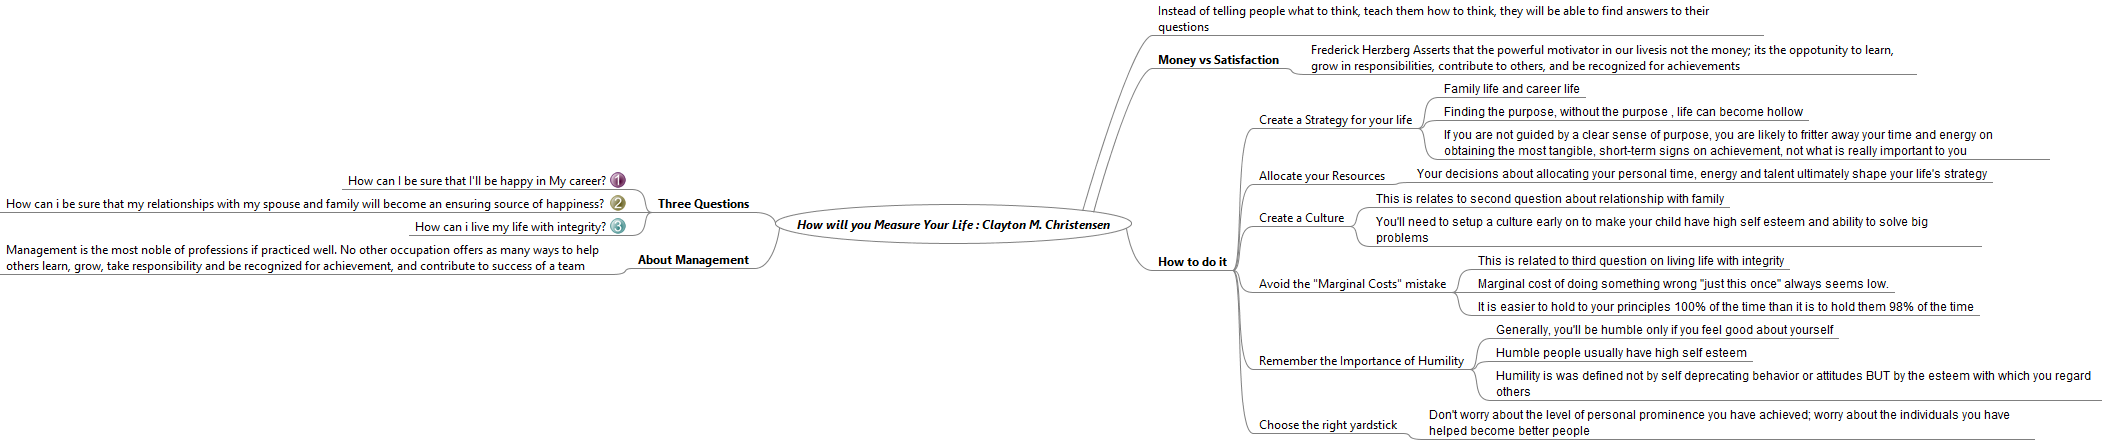
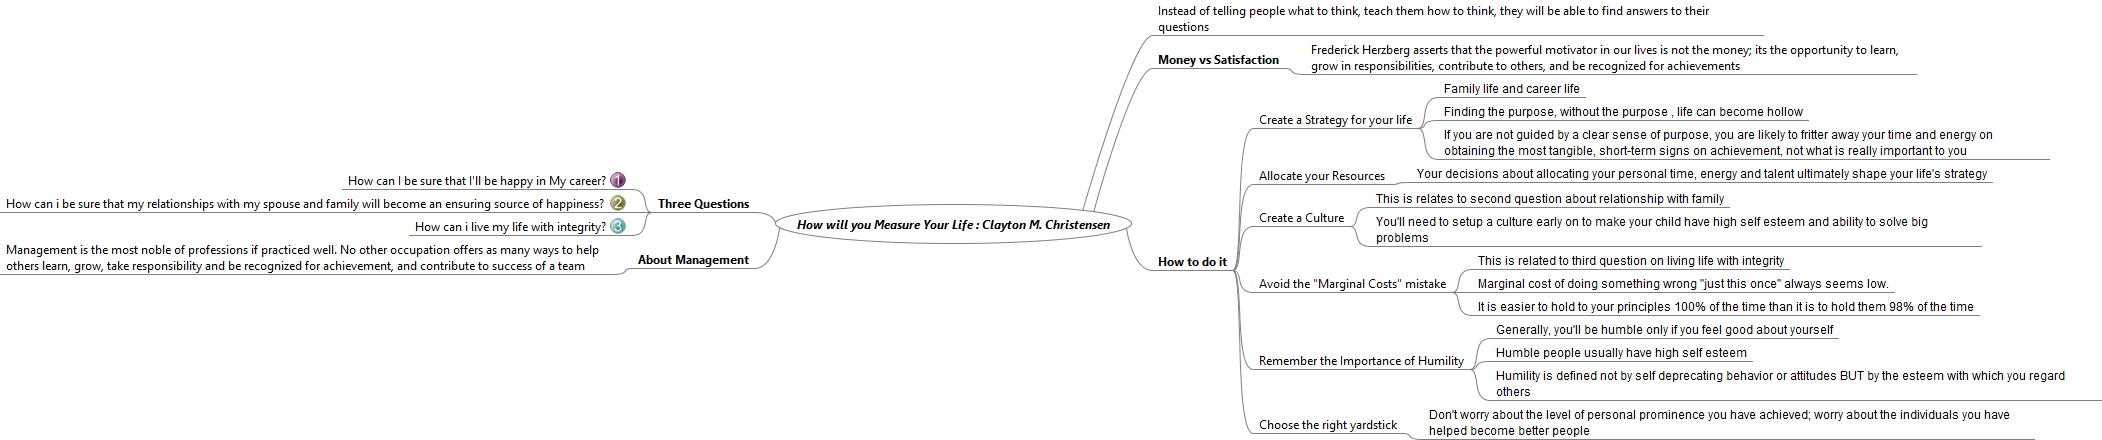
Corrected TYPO and spelling mistakes

Changed region(s): [[0.7422, 0.8273, 1.0, 0.8864], [0.6803, 0.0886, 0.8968, 0.1477]]

diff --git a/How Will  You Measure Your Life/MeasuringYourLife-ClaytonMChristensen.mm b/How Will  You Measure Your Life/MeasuringYourLife-ClaytonMChristensen.mm
@@ -22,7 +22,7 @@
 </node>
 <node CREATED="1514186703644" ID="ID_1774830902" MODIFIED="1514187153992" POSITION="right" TEXT="Money vs Satisfaction">
 <font BOLD="true" NAME="Segoe UI" SIZE="12"/>
-<node CREATED="1514186716311" ID="ID_794358086" MODIFIED="1514187119319" TEXT="Frederick Herzberg Asserts that the powerful motivator in our livesis not the money; its the oppotunity to learn, grow in responsibilities, contribute to others, and be recognized for achievements">
+<node CREATED="1514186716311" ID="ID_794358086" MODIFIED="1514193255506" TEXT="Frederick Herzberg asserts that the powerful motivator in our lives is not the money; its the opportunity to learn, grow in responsibilities, contribute to others, and be recognized for achievements">
 <font NAME="Segoe UI" SIZE="12"/>
 </node>
 </node>
@@ -59,7 +59,7 @@
 <font NAME="Segoe UI" SIZE="12"/>
 <node CREATED="1514190573527" ID="ID_1016744098" MODIFIED="1514190821275" TEXT="Generally, you&apos;ll be humble only if you feel good about yourself"/>
 <node CREATED="1514190877568" ID="ID_547244881" MODIFIED="1514190927397" TEXT="Humble people usually have high self esteem"/>
-<node CREATED="1514190929481" ID="ID_1027281976" MODIFIED="1514190993235" TEXT="Humility is was defined not by self deprecating behavior or attitudes BUT by the esteem with which you regard others"/>
+<node CREATED="1514190929481" ID="ID_1027281976" MODIFIED="1514193283675" TEXT="Humility is defined not by self deprecating behavior or attitudes BUT by the esteem with which you regard others"/>
 </node>
 <node CREATED="1514187047680" ID="ID_4530837" MODIFIED="1514187119303" TEXT="Choose the right yardstick">
 <font NAME="Segoe UI" SIZE="12"/>
